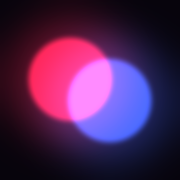
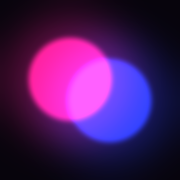
Hot pink, a deeper blue, channel 2 holds, and a QR page
The pink was the scene's crimson; Blaine: it's pink. The blue goes a touch
deeper. Channel 2 now holds each color about five seconds and blends over
quickly. qr.html shows big codes for all three channels (printable), or one
channel full screen for a TV by the door; the start screen links to it.

Claude-Session: https://claude.ai/code/session_01Kf4oAVaa4uT9idRRBpP7FE

Changed region(s): [[0.1389, 0.1944, 0.8611, 0.8056]]

diff --git a/index.html b/index.html
@@ -17,8 +17,8 @@
 <meta property="og:description" content="Your phone is a club light. Same channel, same flash.">
 <style>
   :root {
-    --pink: #ff2047;
-    --blue: #3c67ff;
+    --pink: #ff1c8c;
+    --blue: #2440ff;
     --ink: #f4ecff;
     --dim: #9c8fb4;
     --bg: #07040c;
@@ -39,8 +39,8 @@
     padding: max(28px, env(safe-area-inset-top)) 16px max(24px, env(safe-area-inset-bottom));
     display: flex; flex-direction: column; align-items: center; gap: 18px;
     background:
-      radial-gradient(120% 60% at 0% 0%, rgba(255, 32, 71, .28), transparent 60%),
-      radial-gradient(120% 60% at 100% 100%, rgba(60, 103, 255, .32), transparent 60%),
+      radial-gradient(120% 60% at 0% 0%, rgba(255, 28, 140, .28), transparent 60%),
+      radial-gradient(120% 60% at 100% 100%, rgba(36, 64, 255, .32), transparent 60%),
       var(--bg);
     overflow: hidden;
   }
@@ -59,13 +59,13 @@
   h1 { margin: 0; line-height: .9; font-weight: 800; text-transform: uppercase; letter-spacing: .04em; }
   h1 .heated {
     display: block; font-size: clamp(44px, 15vw, 96px); color: #ffe3f2;
-    text-shadow: 0 0 6px var(--pink), 0 0 18px var(--pink), 0 0 42px var(--pink), 0 0 80px rgba(255, 32, 71, .6);
+    text-shadow: 0 0 6px var(--pink), 0 0 18px var(--pink), 0 0 42px var(--pink), 0 0 80px rgba(255, 28, 140, .6);
     animation: buzz 6s infinite;
   }
   h1 .club {
     display: block; margin-top: 10px; font-size: clamp(26px, 8.5vw, 56px); letter-spacing: .32em; padding-left: .32em;
     color: #e2e8ff;
-    text-shadow: 0 0 6px var(--blue), 0 0 18px var(--blue), 0 0 42px var(--blue), 0 0 80px rgba(60, 103, 255, .7);
+    text-shadow: 0 0 6px var(--blue), 0 0 18px var(--blue), 0 0 42px var(--blue), 0 0 80px rgba(36, 64, 255, .7);
   }
   @keyframes buzz { 0%, 91%, 93%, 96%, 100% { opacity: 1; } 92%, 95% { opacity: .55; } }
   .tag { margin: 14px 0 0; color: var(--dim); font-size: 17px; letter-spacing: .06em; }
@@ -82,14 +82,14 @@
   .chan .name { font-size: 22px; font-weight: 700; letter-spacing: .03em; }
   .chan .blurb { font-size: 15px; color: var(--dim); }
   .chan .sw { width: 38px; height: 38px; border-radius: 50%; flex: none; box-shadow: 0 0 14px rgba(255, 255, 255, .15); }
-  .chan.on { border-color: #fff; background: rgba(255, 255, 255, .10); box-shadow: 0 0 0 1px #fff, 0 0 24px rgba(255, 32, 71, .35), 0 0 36px rgba(60, 103, 255, .3); }
+  .chan.on { border-color: #fff; background: rgba(255, 255, 255, .10); box-shadow: 0 0 0 1px #fff, 0 0 24px rgba(255, 28, 140, .35), 0 0 36px rgba(36, 64, 255, .3); }
   .chan.on .num { color: #fff; }
 
   #go {
     margin-top: 8px; width: 100%; padding: 18px; border: 0; border-radius: 16px;
     font-size: 26px; font-weight: 800; letter-spacing: .18em; text-transform: uppercase; color: #fff;
     background: linear-gradient(90deg, var(--pink), var(--blue));
-    box-shadow: 0 0 24px rgba(255, 32, 71, .55), 0 0 40px rgba(60, 103, 255, .45);
+    box-shadow: 0 0 24px rgba(255, 28, 140, .55), 0 0 40px rgba(36, 64, 255, .45);
   }
   #go:active { transform: scale(.98); }
   .row { display: flex; gap: 10px; }
@@ -97,6 +97,7 @@
     flex: 1; padding: 13px; border-radius: 14px; border: 1px solid rgba(255, 255, 255, .22);
     background: transparent; font-size: 18px; font-weight: 700; letter-spacing: .08em;
   }
+  a.ghost { color: inherit; text-decoration: none; text-align: center; }
   .dj {
     display: flex; align-items: center; gap: 14px; padding: 12px 14px; border-radius: 14px; text-decoration: none; color: var(--ink);
     border: 1px dashed rgba(255, 255, 255, .28); background: rgba(255, 255, 255, .03);
@@ -104,7 +105,7 @@
   .djtag {
     flex: none; width: 44px; height: 44px; border-radius: 50%; display: grid; place-items: center;
     font-weight: 800; letter-spacing: .06em; color: #fff; background: #111; border: 2px solid var(--pink);
-    box-shadow: 0 0 12px rgba(255, 32, 71, .6), inset 0 0 10px rgba(60, 103, 255, .5);
+    box-shadow: 0 0 12px rgba(255, 28, 140, .6), inset 0 0 10px rgba(36, 64, 255, .5);
   }
   button.dj { width: 100%; text-align: left; }
   #booth {
@@ -142,7 +143,7 @@
   /* ---- the secret: a tiny puck in the footer ---- */
   .puck {
     display: inline-block; vertical-align: middle; margin-left: 6px; width: 16px; height: 9px; padding: 0; border: 0; border-radius: 50%;
-    background: #111; box-shadow: 0 2px 0 #000, 0 0 6px rgba(255, 32, 71, .55), 0 0 10px rgba(60, 103, 255, .45);
+    background: #111; box-shadow: 0 2px 0 #000, 0 0 6px rgba(255, 28, 140, .55), 0 0 10px rgba(36, 64, 255, .45);
   }
   #secret {
     position: fixed; inset: 0; z-index: 6; background: #000; display: flex; align-items: center; justify-content: center;
@@ -150,10 +151,10 @@
   }
   #secret::after {
     content: ""; position: absolute; inset: 0; pointer-events: none;
-    background: radial-gradient(70% 55% at 0% 0%, rgba(255, 32, 71, .35), transparent 70%), radial-gradient(70% 55% at 100% 100%, rgba(60, 103, 255, .4), transparent 70%);
+    background: radial-gradient(70% 55% at 0% 0%, rgba(255, 28, 140, .35), transparent 70%), radial-gradient(70% 55% at 100% 100%, rgba(36, 64, 255, .4), transparent 70%);
     mix-blend-mode: screen;
   }
-  #secretImg { max-width: 100%; max-height: calc(100dvh - 110px); border-radius: 14px; box-shadow: 0 0 0 3px var(--pink), 0 0 0 6px var(--blue), 0 0 40px rgba(255, 32, 71, .45); }
+  #secretImg { max-width: 100%; max-height: calc(100dvh - 110px); border-radius: 14px; box-shadow: 0 0 0 3px var(--pink), 0 0 0 6px var(--blue), 0 0 40px rgba(255, 28, 140, .45); }
   .secretBar { position: absolute; left: 16px; right: 16px; bottom: max(16px, env(safe-area-inset-bottom)); display: flex; gap: 10px; z-index: 1; }
   .secretBar .ghost { background: rgba(0, 0, 0, .55); }
 
@@ -176,7 +177,7 @@
   }
   .card {
     width: min(400px, 100%); text-align: center; color: #120a1c; background: #fff; border-radius: 22px; padding: 20px 20px 16px;
-    box-shadow: 0 0 0 4px var(--pink), 0 0 0 8px var(--blue), 0 0 50px rgba(255, 32, 71, .5);
+    box-shadow: 0 0 0 4px var(--pink), 0 0 0 8px var(--blue), 0 0 50px rgba(255, 28, 140, .5);
   }
   .card h2 { margin: 0; font-size: 26px; letter-spacing: .06em; text-transform: uppercase; }
   .card .ch { margin: 4px 0 10px; font-size: 18px; font-weight: 700; color: #5a4a70; }
@@ -198,7 +199,8 @@
     <div id="chans" class="panel"></div>
     <button id="go">Light it up</button>
     <div class="row">
-      <button id="share" class="ghost">Share this channel (QR)</button>
+      <button id="share" class="ghost">Share this channel</button>
+      <a href="qr.html" class="ghost">All QR codes</a>
     </div>
     <button id="djOpen" class="dj">
       <span class="djtag">DJ</span>

diff --git a/qr.html b/qr.html
@@ -1,0 +1,89 @@
+<!doctype html>
+<html lang="en">
+<head>
+<meta charset="utf-8">
+<meta name="viewport" content="width=device-width, initial-scale=1, viewport-fit=cover">
+<title>Join the Club: QR codes</title>
+<meta name="theme-color" content="#000000">
+<link rel="icon" href="icons/icon-192.png">
+<link rel="apple-touch-icon" href="icons/apple-touch-icon.png">
+<style>
+  :root { --pink: #ff1c8c; --blue: #2440ff; --ink: #f4ecff; --dim: #9c8fb4; --bg: #07040c; }
+  * { box-sizing: border-box; }
+  html, body { margin: 0; background: var(--bg); color: var(--ink); }
+  body {
+    font-family: "Avenir Next Condensed", "Arial Narrow", "Roboto Condensed", system-ui, sans-serif;
+    min-height: 100dvh; padding: max(24px, env(safe-area-inset-top)) 16px max(24px, env(safe-area-inset-bottom));
+    background:
+      radial-gradient(110% 50% at 0% 0%, rgba(255, 28, 140, .28), transparent 60%),
+      radial-gradient(110% 50% at 100% 100%, rgba(36, 64, 255, .32), transparent 60%),
+      var(--bg);
+  }
+  h1 { margin: 0; text-align: center; text-transform: uppercase; font-weight: 800; line-height: .95; }
+  h1 .a { display: block; font-size: clamp(38px, 11vw, 84px); color: #ffe3f2; text-shadow: 0 0 8px var(--pink), 0 0 26px var(--pink), 0 0 60px var(--pink); }
+  h1 .b { display: block; margin-top: 8px; font-size: clamp(20px, 5.5vw, 40px); letter-spacing: .3em; padding-left: .3em; color: #e2e8ff; text-shadow: 0 0 8px var(--blue), 0 0 26px var(--blue); }
+  .lede { text-align: center; color: var(--dim); font-size: 18px; margin: 14px 0 22px; }
+  .cards { display: flex; flex-wrap: wrap; gap: 22px; justify-content: center; }
+  .card {
+    width: min(360px, 100%); background: #fff; color: #120a1c; border-radius: 22px; padding: 18px 18px 14px; text-align: center;
+    box-shadow: 0 0 0 4px var(--pink), 0 0 0 8px var(--blue), 0 0 50px rgba(255, 28, 140, .45);
+    text-decoration: none; display: block;
+  }
+  .card .num { font-size: 15px; letter-spacing: .24em; text-transform: uppercase; color: #6a5a80; }
+  .card h2 { margin: 2px 0 2px; font-size: 30px; text-transform: uppercase; letter-spacing: .05em; }
+  .card .what { font-size: 16px; color: #5a4a70; margin-bottom: 10px; }
+  .card .code svg { width: 100%; height: auto; display: block; }
+  .card .url { margin-top: 8px; font-size: 13px; color: #5a4a70; word-break: break-all; }
+  .foot { margin: 26px auto 0; max-width: 560px; text-align: center; color: var(--dim); font-size: 15px; line-height: 1.5; }
+  .foot a { color: var(--ink); }
+  /* poster: one channel, as big as the screen allows (for a TV or a laptop by the door) */
+  body.poster { display: flex; flex-direction: column; align-items: center; justify-content: center; }
+  body.poster .card { width: min(70vh, 92vw); }
+  body.poster .foot, body.poster .lede { display: none; }
+  @media print {
+    html, body { background: #fff !important; color: #000; }
+    h1 .a, h1 .b { color: #000; text-shadow: none; }
+    .card { box-shadow: 0 0 0 3px #000; break-inside: avoid; }
+    .foot, .lede { display: none; }
+  }
+</style>
+</head>
+<body>
+  <h1><span class="a">Join the club</span><span class="b">Scan, pick, light up</span></h1>
+  <p class="lede">Point your camera at a code. Same channel, same flash.</p>
+  <div class="cards" id="cards"></div>
+  <p class="foot">
+    Show one channel big, for a TV or a laptop by the door:
+    <a href="?ch=1">1</a> · <a href="?ch=2">2</a> · <a href="?ch=3">3</a>.
+    Or print this page. <a href="./">Back to the lights</a>
+  </p>
+<script src="vendor/qrcode.js"></script>
+<script>
+  // The channels, as the light page names them (app.js CHANNELS).
+  const CH = [
+    ['The Club', 'Fast pink and blue flicker'],
+    ['Slow Burn', 'Green, then blue: holds, then a quick blend'],
+    ['Rivals', 'Pink and blue, slow, melting together'],
+  ];
+  const base = new URL('./', location.href).href;  // the light page, wherever this page is served
+  const only = parseInt(new URLSearchParams(location.search).get('ch'), 10);
+  const holder = document.getElementById('cards');
+  CH.forEach(([name, what], i) => {
+    if (only && only !== i + 1) return;
+    const url = `${base}?ch=${i + 1}`;
+    const qr = qrcode(0, 'M');
+    qr.addData(url);
+    qr.make();
+    const a = document.createElement('a');
+    a.className = 'card';
+    a.href = url;
+    a.innerHTML = `<div class="num">Channel ${i + 1}</div><h2></h2><div class="what"></div><div class="code">${qr.createSvgTag({ cellSize: 8, margin: 2, scalable: true })}</div><div class="url"></div>`;
+    a.querySelector('h2').textContent = name;
+    a.querySelector('.what').textContent = what;
+    a.querySelector('.url').textContent = url.replace(/^https?:\/\//, '');
+    holder.appendChild(a);
+  });
+  if (only) document.body.classList.add('poster');
+</script>
+</body>
+</html>

diff --git a/app.js b/app.js
@@ -1,11 +1,11 @@
 // Heated Rivalry: The Club. Every phone is a light, and every phone on the same channel shows the same color at
 // the same moment: the color is a pure function of (channel, world time), so no server is needed, only a shared clock.
 
-// ---- the colors: sampled from the club scene itself (its brightest lit pixels, pushed to full brightness) ----
-const PINK = [255, 32, 71];   // the crimson pink of the light panels and faces
-const BLUE = [60, 103, 255];  // the cold blue on the shirts and the crowd
+// ---- the colors: first sampled from the club scene, then tuned by eye on a phone ----
+const PINK = [255, 28, 140];  // hot pink (Blaine, 2026-10-31: the scene's crimson read too red; "it's pink")
+const BLUE = [36, 64, 255];   // the scene's cold blue, a touch deeper
 const GREEN = [0, 255, 120];
-const TEAL_BLUE = [0, 110, 255];
+const TEAL_BLUE = [0, 84, 255];
 
 const mix = (a, b, k) => a.map((v, i) => v + (b[i] - v) * k);
 const dim = (c, k) => c.map(v => v * k);
@@ -37,15 +37,15 @@ const CHANNELS = [
   },
   {
     name: 'Slow Burn',
-    blurb: 'Green and blue, sliding back and forth',
+    blurb: 'Green, then blue: holds, then a quick blend',
     swatch: [GREEN, TEAL_BLUE],
     color(t) {
-      // Over to blue across two bars, back to green across two more; it rests a moment on each color, and dips a
-      // little in the middle of each crossing so it reads as a pulse.
-      const span = BEAT * 8, n = Math.floor(t / span), p = (t - n * span) / span;
-      const s = p * p * (3 - 2 * p);  // smoothstep: lingers at the ends
-      const k = n % 2 === 0 ? s : 1 - s;
-      return dim(mix(GREEN, TEAL_BLUE, k), 0.72 + 0.28 * Math.abs(1 - 2 * s));
+      // Each color holds for about five seconds, then blends over quickly into the other.
+      const span = 5000, blend = 800, n = Math.floor(t / span), p = t - n * span;
+      const [from, to] = n % 2 === 0 ? [GREEN, TEAL_BLUE] : [TEAL_BLUE, GREEN];
+      if (p < span - blend) return from;
+      const q = (p - (span - blend)) / blend;
+      return mix(from, to, q * q * (3 - 2 * q));
     },
   },
   {

diff --git a/README.md b/README.md
@@ -4,13 +4,16 @@ A fan-made party light. Open it on your phone, pick a channel, tap **Light it up
 Every phone on the same channel flashes in sync.
 
 - **Channel 1, The Club:** a fast pink and blue flicker, on sixteenth notes.
-- **Channel 2, Slow Burn:** green and blue, sliding back and forth.
+- **Channel 2, Slow Burn:** green, then blue: each holds about five seconds, then a quick blend.
 - **Channel 3, Rivals:** pink and blue, slow, melting together.
 
-The pink and blue are sampled from the club scene itself. Everything locks to a 126 BPM grid (the Harrison remix's tempo, by one catalog; unconfirmed); a link can set its own
+The pink and blue started as samples from the club scene, then were tuned by eye (hot pink, a deep blue). Everything locks to a 126 BPM grid (the Harrison remix's tempo, by one catalog; unconfirmed); a link can set its own
 (`?ch=1&bpm=128`), and the QR code carries it along. The DJ booth plays the song from the scene, Harrison's 2022 remix of t.A.T.u.'s "All the Things She Said": open it in Spotify or Apple Music, play it in a Spotify embed, or play Crave's clip of the scene from 1:55 (one phone, on a speaker).
 
 **Live:** https://blainebooher.com/heated-rivalry-the-club/ (a channel link: `?ch=2`)
+
+**QR codes:** https://blainebooher.com/heated-rivalry-the-club/qr, all three channels, printable. `qr?ch=1` shows one
+channel as big as the screen allows, for a TV or a laptop by the door.
 
 ## How the sync works
 
